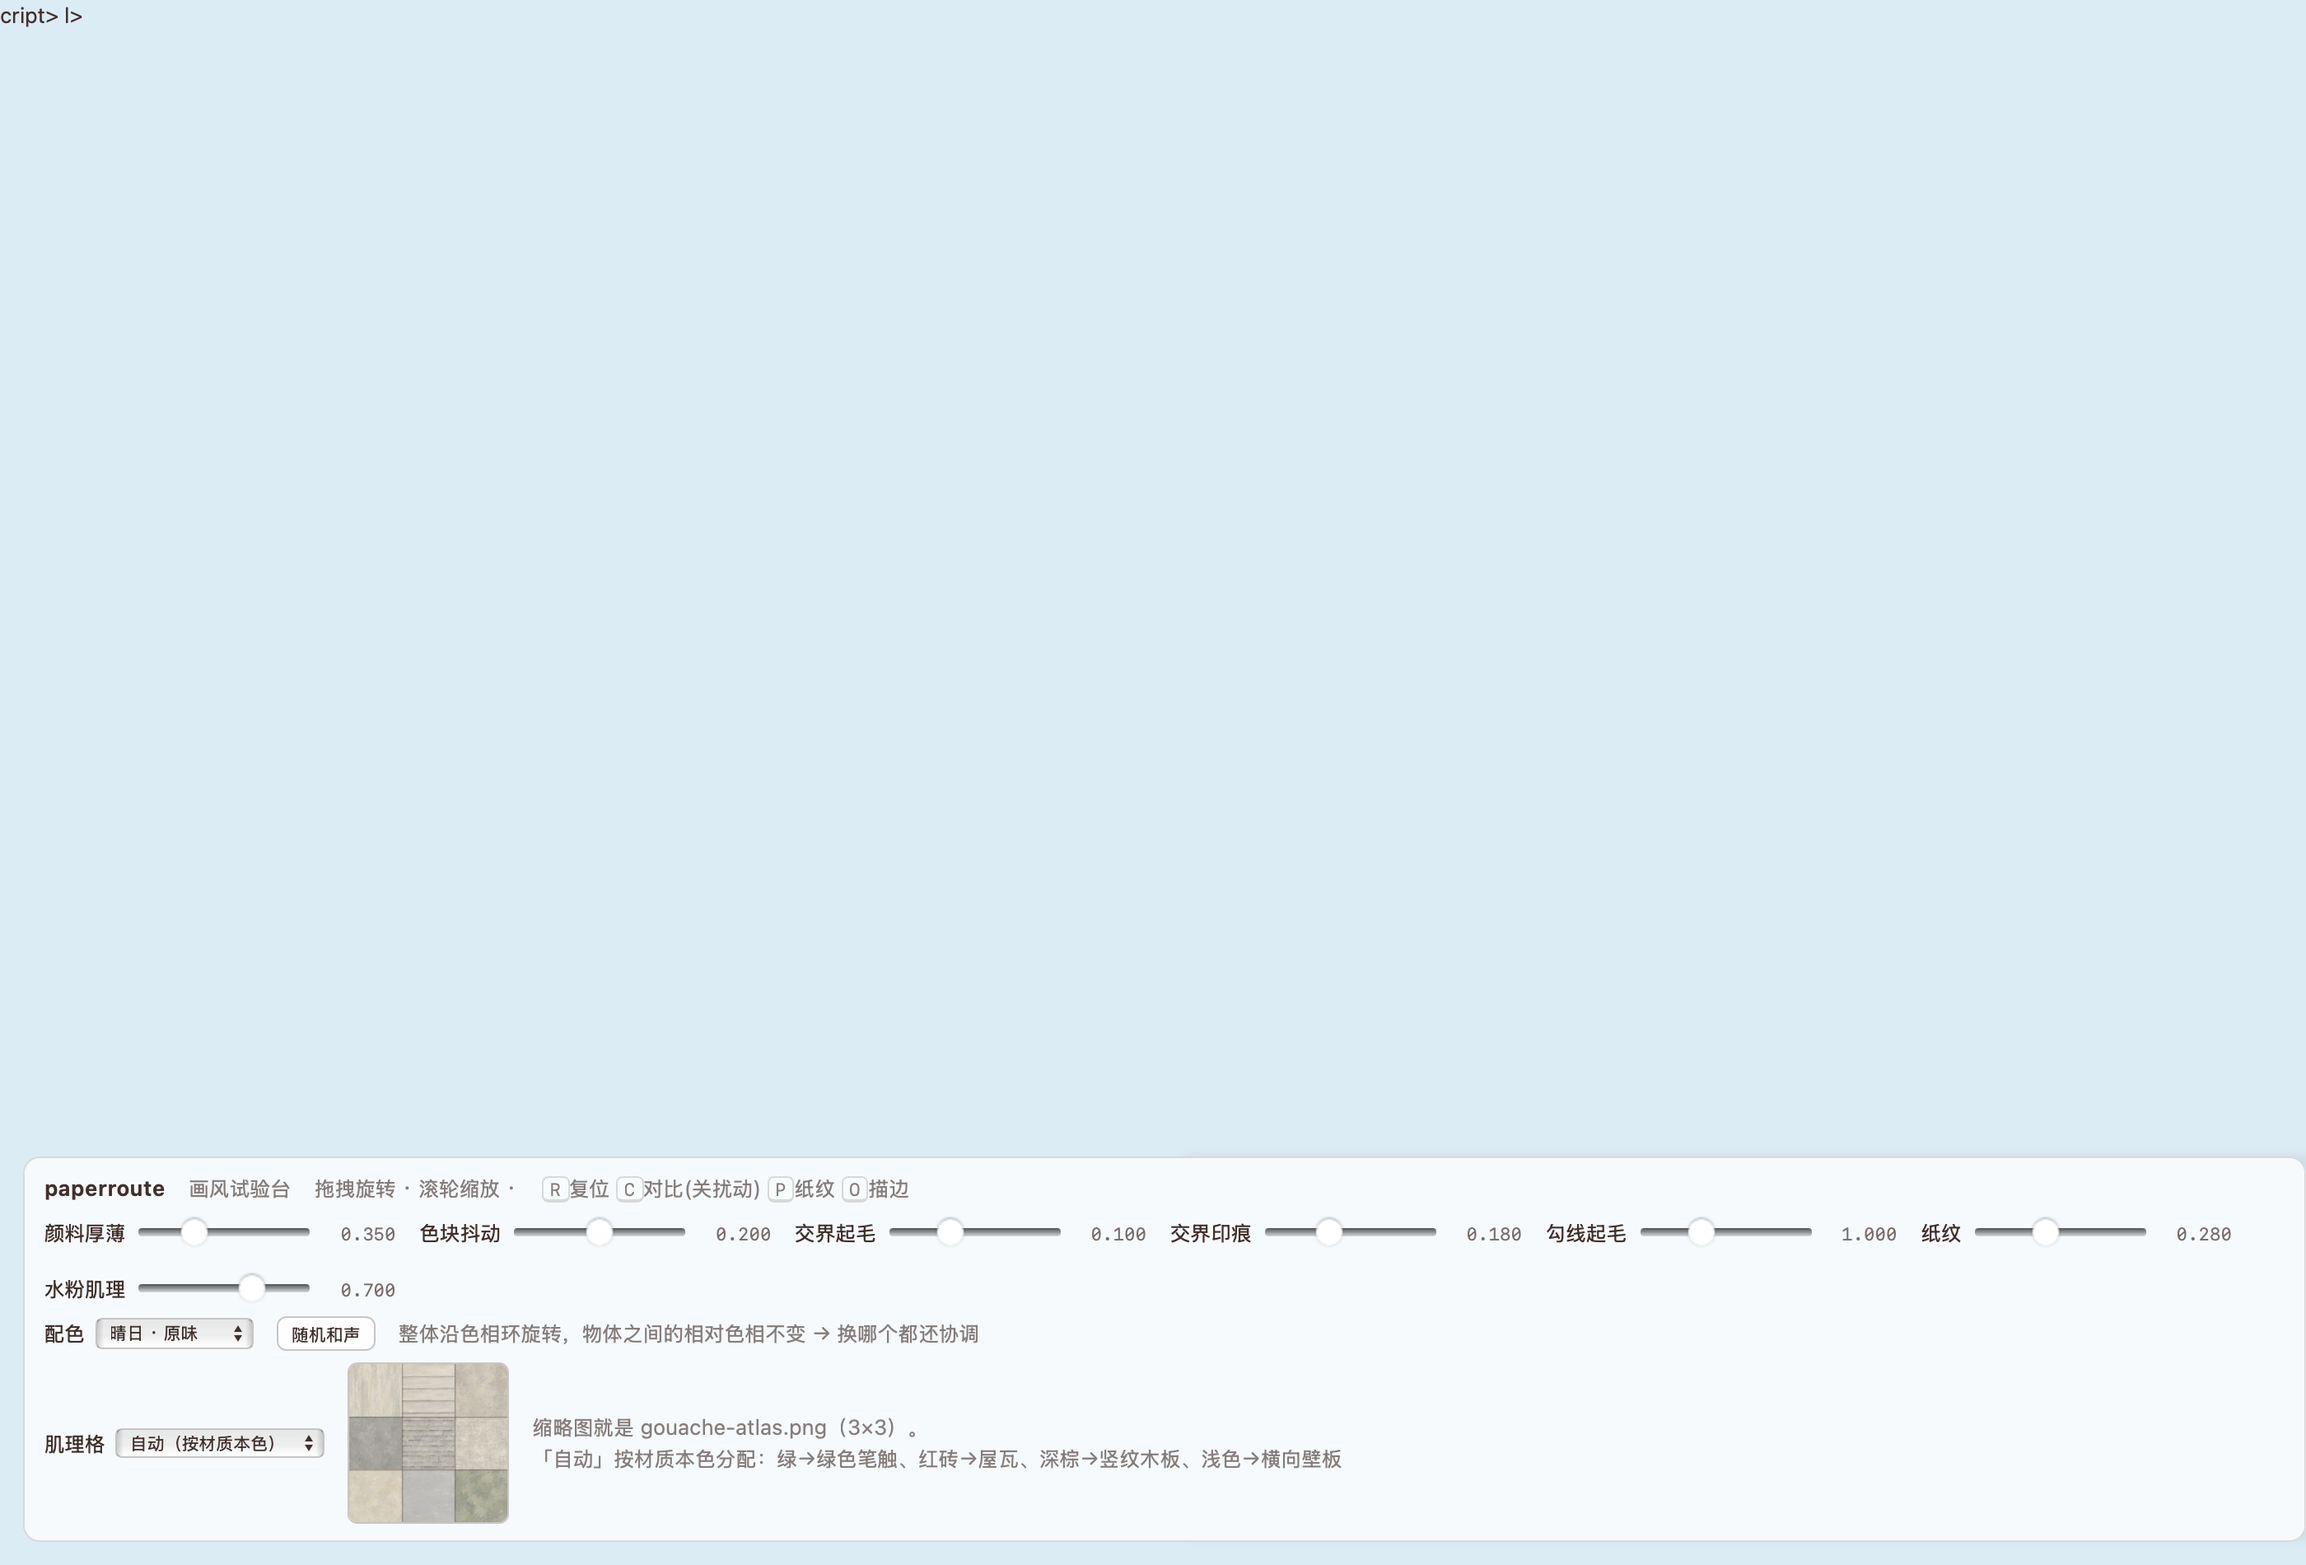
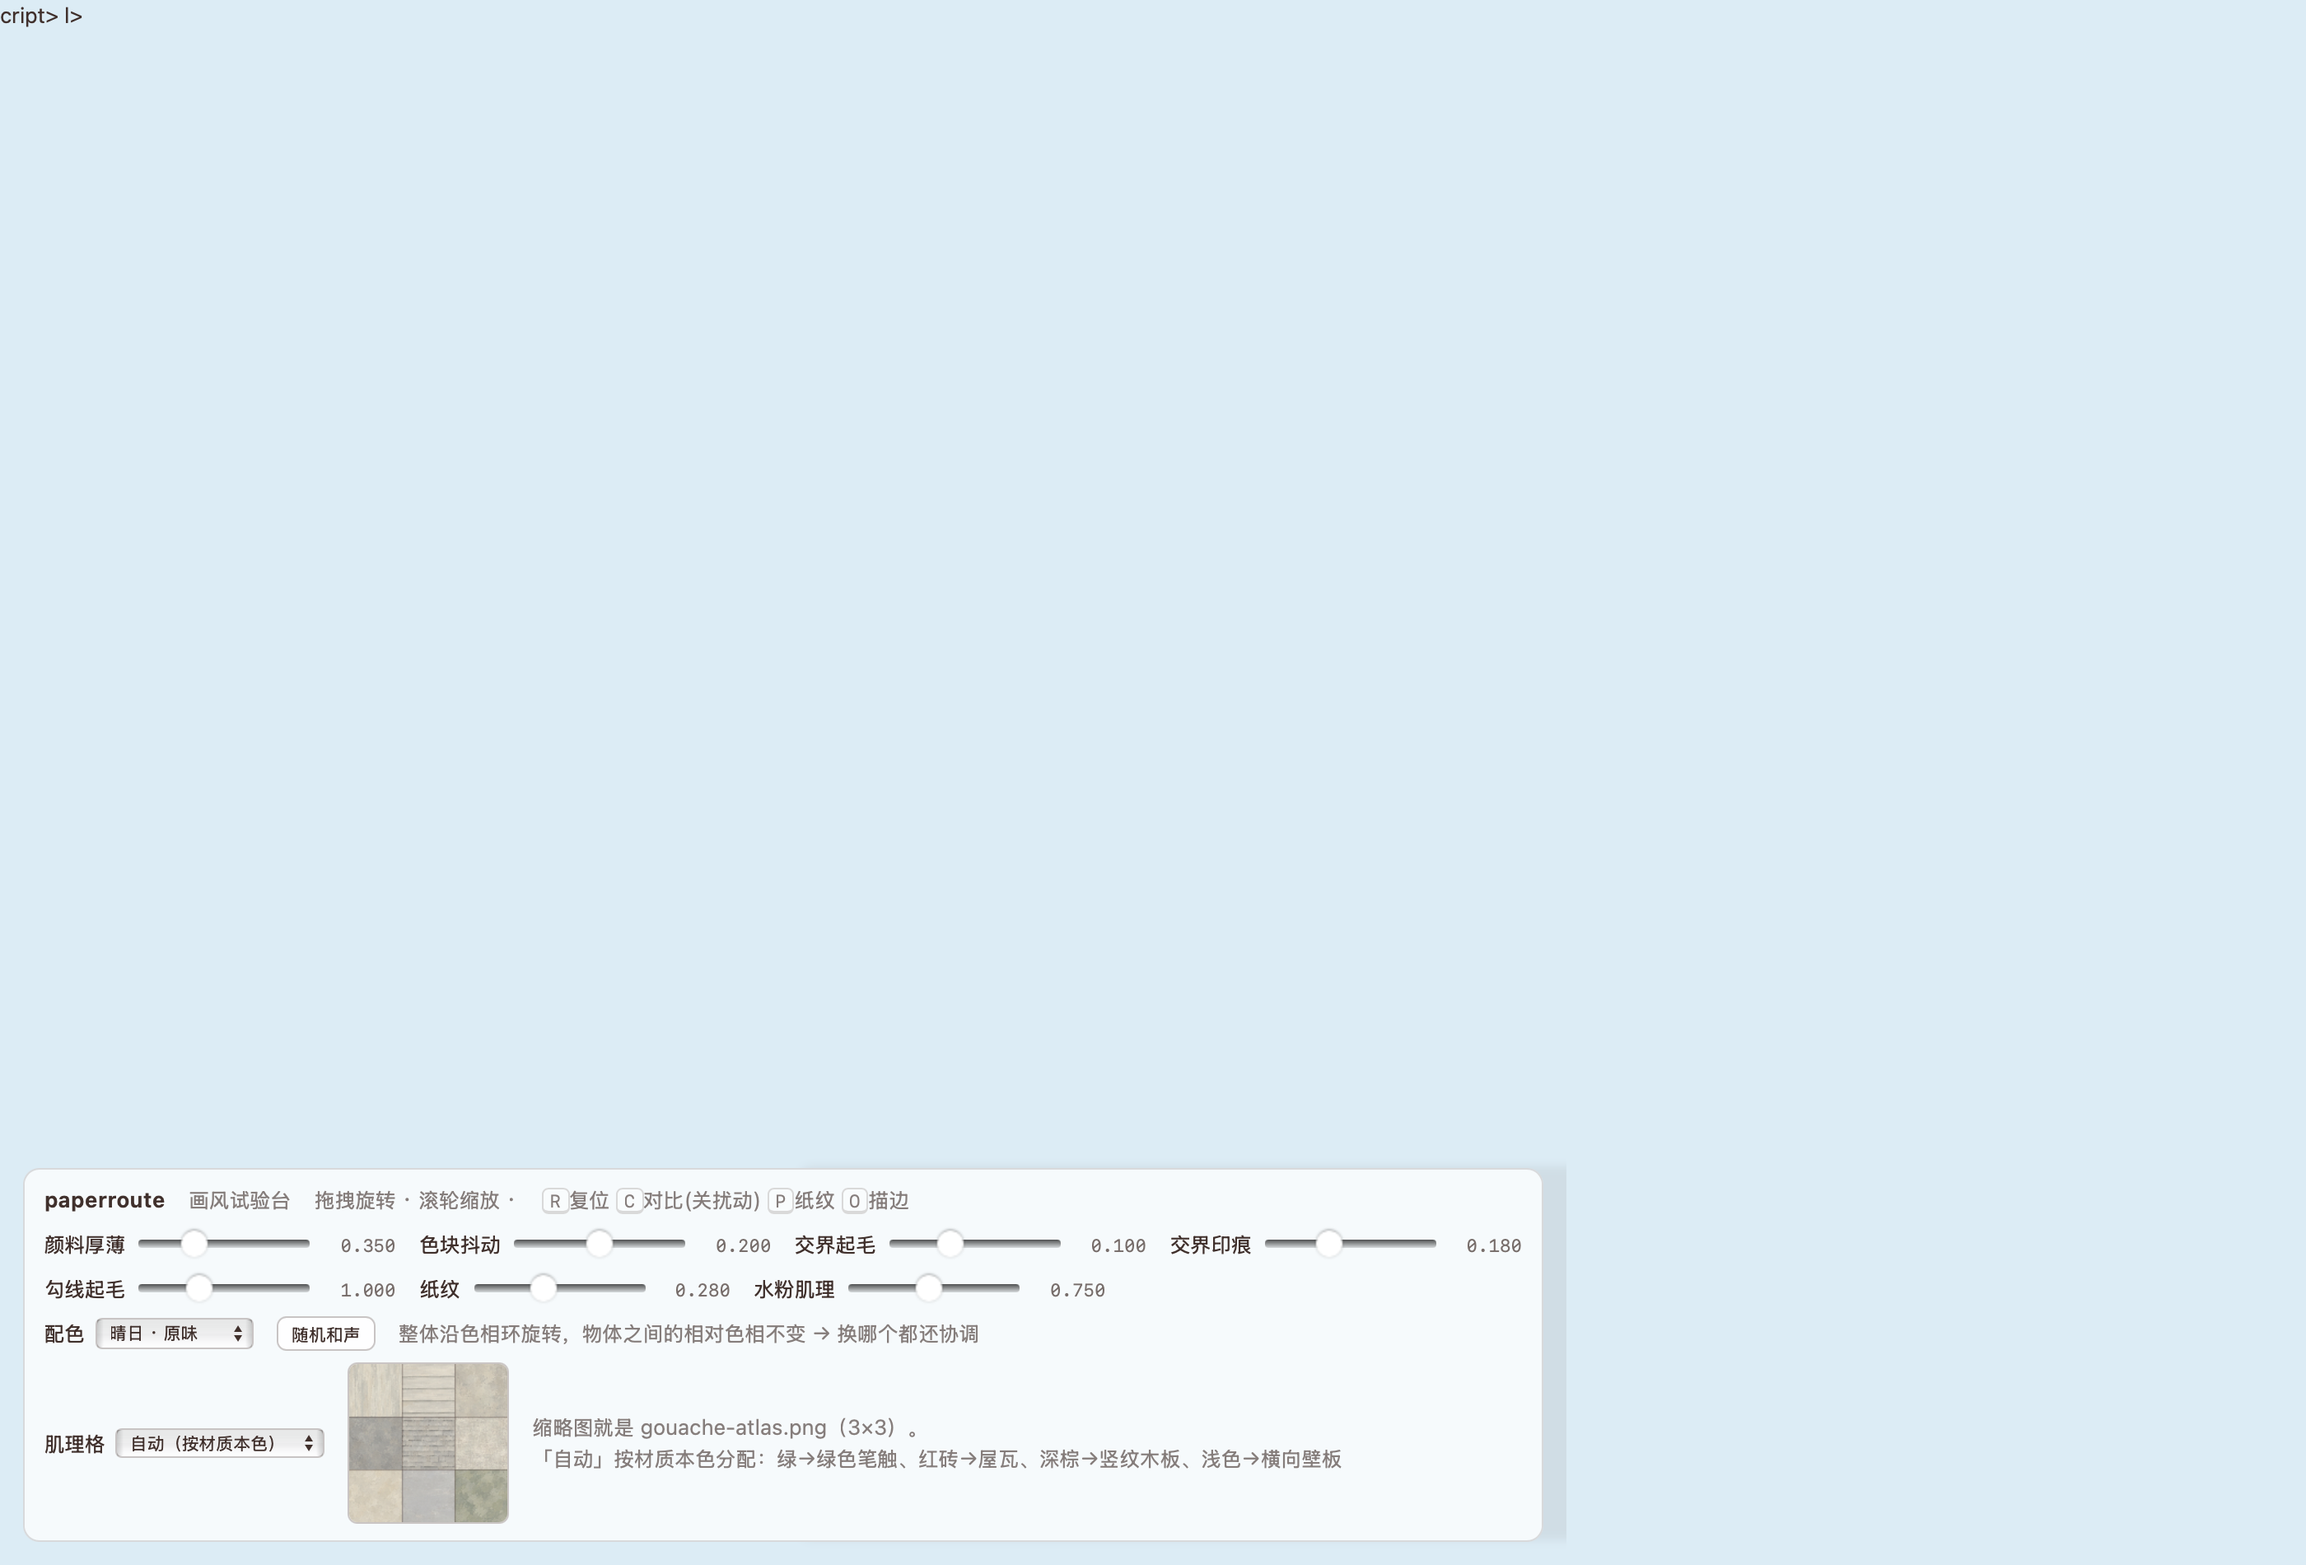
肌理对比度拉伸 + 强度上限，修 HUD 滑杆行溢出
- 手绘水粉本身 sd 只有 3.6~13，直接乘上去肉眼几乎看不见：
  切图时围绕每格均值做对比拉伸（ATLAS_CONTRAST=1.8），均值不变、归一化照样成立
- 肌理强度默认 0.75，滑杆上限 1.6（拉满会出黑点，已在注释里标明）
- 修 HUD：滑杆拆两行 + label.sl 加 flex:0 0 auto，首行「颜料厚薄」不再被挤没
- 实测（相机 4.6m）：墙面 sd 7.56→10.74(+42%)、草地 7.02→9.21(+31%)；
  整体亮度 124.4→123.4（-1%）

Changed region(s): [[0.0, 0.7142, 1.0, 0.9937]]

diff --git a/house-lab.html b/house-lab.html
@@ -36,7 +36,7 @@
   #hud .dim{opacity:.62}
   kbd{border:1px solid rgba(64,48,44,.28);border-bottom-width:2px;border-radius:4px;
     padding:0 4px;font:11px/1.6 ui-monospace,monospace;background:rgba(255,255,255,.6)}
-  label.sl{display:flex;align-items:center;gap:6px;white-space:nowrap}
+  label.sl{display:flex;align-items:center;gap:6px;white-space:nowrap;flex:0 0 auto}
   label.sl input[type=range]{width:104px;accent-color:#7a9a5b;height:16px}
   label.sl output{font:11px/1 ui-monospace,monospace;opacity:.7;width:44px;text-align:right}
   label.ck{display:flex;align-items:center;gap:5px;cursor:pointer;user-select:none}
@@ -68,9 +68,11 @@
     <label class="sl">色块抖动 <input id="s-low" type="range" min="0" max="0.40" step="0.005"><output id="o-low"></output></label>
     <label class="sl">交界起毛 <input id="s-high" type="range" min="0" max="0.30" step="0.005"><output id="o-high"></output></label>
     <label class="sl">交界印痕 <input id="s-ink" type="range" min="0" max="0.50" step="0.005"><output id="o-ink"></output></label>
+  </div>
+  <div class="row">
     <label class="sl">勾线起毛 <input id="s-wobble" type="range" min="0" max="3" step="0.05"><output id="o-wobble"></output></label>
     <label class="sl">纸纹 <input id="s-grain" type="range" min="0" max="0.70" step="0.01"><output id="o-grain"></output></label>
-    <label class="sl">水粉肌理 <input id="s-atlas" type="range" min="0" max="1" step="0.01"><output id="o-atlas"></output></label>
+    <label class="sl">水粉肌理 <input id="s-atlas" type="range" min="0" max="1.6" step="0.01"><output id="o-atlas"></output></label>
   </div>
   <div class="row">
     <label class="sl">配色 <select id="s-scheme"></select></label>
@@ -126,7 +128,7 @@ const P = {
   wobble:  1.000,   // 勾线起毛：描边沿法线噪声抖动（0 = 干净等宽线）
   grain:   0.280,   // 纸纹强度
   grainOn: true,
-  atlas:   0.700,   // 手绘水粉肌理强度（乘进漫反射；图集是中性灰白 → 只加厚薄、不带异色）
+  atlas:   0.750,   // 手绘水粉肌理强度（乘进漫反射；图集是中性灰白 → 只加厚薄、不带异色）
   atlasScale: 0.55, // 肌理取样尺度（格/世界米）
   atlasCell: -1,    // 手动指定用哪一格（0~8）；-1 = 按材质本色自动分配
   outline: true,
@@ -364,6 +366,7 @@ const ATLAS_N = 3;
 const ATLAS_PX = 512;                 // 重采样到 2 的幂，mipmap 才稳
 const PR_SRGB2LIN = new Float32Array(256);
 for (let i = 0; i < 256; i++) PR_SRGB2LIN[i] = Math.pow(i / 255, 2.2);
+const ATLAS_CONTRAST = 1.8;           // 手绘水粉太淡，先把每格的对比度拉起来（拉太狠会出黑点）
 const atlasU = [];                    // 每格 { tex:{value}, mean:{value} }，材质共享引用
 for (let i = 0; i < ATLAS_N * ATLAS_N; i++) atlasU.push({ tex: { value: null }, mean: { value: new THREE.Vector3(1, 1, 1) } });
 const uPrAtlasK     = { value: 0 };   // 先关着，图集加载完再打开（免得采样到未绑定的纹理）
@@ -437,6 +440,21 @@ function paintAtlasPicker(img) {
         const x = c.getContext('2d');
         x.drawImage(img, col * cw, row * ch, cw, ch, 0, 0, ATLAS_PX, ATLAS_PX);
         const d = x.getImageData(0, 0, ATLAS_PX, ATLAS_PX).data;
+
+        // 手绘水粉本身的对比度极低（每格 sd 只有 3.6~13），直接乘上去肉眼几乎看不见。
+        // 先围绕每格自己的均值做对比拉伸；均值不变，所以下面的归一化照样成立。
+        let mr = 0, mg = 0, mb = 0;
+        for (let i = 0; i < d.length; i += 4) { mr += d[i]; mg += d[i + 1]; mb += d[i + 2]; }
+        const cnt = d.length / 4;
+        mr /= cnt; mg /= cnt; mb /= cnt;
+        const K = ATLAS_CONTRAST;
+        for (let i = 0; i < d.length; i += 4) {
+          d[i]     = Math.max(0, Math.min(255, (d[i]     - mr) * K + mr));
+          d[i + 1] = Math.max(0, Math.min(255, (d[i + 1] - mg) * K + mg));
+          d[i + 2] = Math.max(0, Math.min(255, (d[i + 2] - mb) * K + mb));
+        }
+        x.putImageData(new ImageData(d, ATLAS_PX, ATLAS_PX), 0, 0);
+
         // 均值必须在 **linear 空间**算：纹理会做 sRGB→linear 解码，
         // 在 sRGB 上求的均值对不上，结果就是整片被压暗（暗部还会增多）。
         let sr = 0, sg = 0, sb = 0, n = 0;
